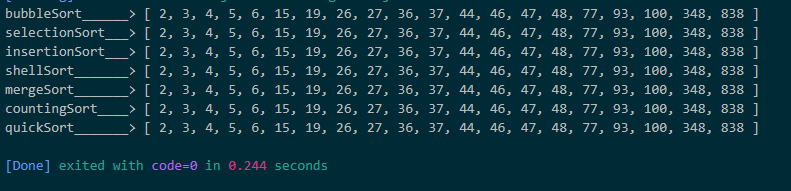
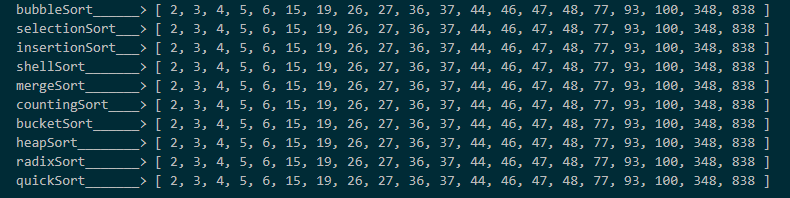
update fibonacci

Changed region(s): [[0.0, 0.0, 0.9722, 0.7592], [0.0, 0.7853, 0.9722, 0.9686]]

diff --git a/Sorting/sort.js b/Sorting/sort.js
@@ -239,19 +239,136 @@ countingSort = function (arr) {
     return B
 }
 console.log('countingSort____>', countingSort(testArr))
-console.log('quickSort_______>', quickSort(testArr))
 
 /*===================== 桶排序 ==========================*/
 var bucketSort
 
+// 1.设置固定空桶数
+// 2.将数据放到对应的空桶中
+// 3.将每个不为空的桶进行排序
+// 4.拼接不为空的桶中的数据，得到结果
+bucketSort = function (arr, bucketSize) {
+    if (arr.length < 2) {
+        return arr
+    }
+    var len = arr.length
+    var arrMin = arr[0]
+    var arrMax = arr[0]
+    for (var i = 0; i < len; i++) {
+        arrMin = Math.min(arrMin, arr[i])
+        arrMax = Math.max(arrMax, arr[i])
+    }
+
+    var BUCKET_SIZE = bucketSize || 10
+    var space = (arrMax - arrMin + 1) / BUCKET_SIZE
+    var buckets = []
+    for (var j = 0; j < len; j++) {
+        var idx = Math.floor((arr[j] - arrMin) / space)
+        if (buckets[idx]) {
+            var k = buckets[idx].length - 1
+            while (k >= 0 && buckets[idx][k] > arr[j]) {
+                buckets[idx][k + 1] = buckets[idx][k]
+                k--
+            }
+            buckets[idx][k + 1] = arr[j]
+        } else {
+            buckets[idx] = []
+            buckets[idx].push(arr[j])
+        }
+    }
+
+    var res = []
+    var n = 0
+    while (n < BUCKET_SIZE) {
+        if (buckets[n]) {
+            res = res.concat(buckets[n])
+        }
+        n++
+    }
+
+    return res
+}
+
+console.log('bucketSort______>', bucketSort(testArr))
 
 /*===================== 堆排序 ==========================*/
 var heapSort
 
+// 交换数组元素
+var swap = function (arr, i, j) {
+    var temp = arr[i]
+    arr[i] = arr[j]
+    arr[j] = temp
+    return arr
+}
+
+var shiftDown = function (arr, i, length) {
+    var temp = arr[i]
+    for (var j = i * 2 + 1; j < length; j = j * 2 + 1) {
+        if (j + 1 < length && arr[j] < arr[j + 1]) {
+            j++
+        }
+        if (temp < arr[j]) {
+            swap(arr, i, j)
+            i = j
+        } else {
+            break
+        }
+    }
+}
+
+heapSort = function (arr) {
+    var len = arr.length
+    for (var i = Math.floor(len / 2 - 1); i >= 0; i--) {
+        shiftDown(arr, i, len)
+    }
+
+    for (var j = len - 1; j > 0; j--) {
+        swap(arr, 0, j)
+        shiftDown(arr, 0, j)
+    }
+    return arr
+}
+
+console.log('heapSort________>', heapSort(testArr))
 
 /*===================== 基数排序 ==========================*/
 var radixSort
 
+// 适用范围：
+// 1. 数据范围较小
+// 2. 每个数值要大于等于0
+/**
+ * @param arr 数组
+ * @param maxDigit 最大位数
+ */
+radixSort = function (arr, maxDigit) {
+    var mod = 10
+    var dev = 1
+    var counter = []
+    for (var i = 0; i < maxDigit; i++, dev *= 10, mod *= 10) {
+        for (var j = 0; j < arr.length; j++) {
+            var bucket = parseInt((arr[j] % mod ) / dev)
+            if (counter[bucket] === null) {
+                counter[bucket] = []
+                counter[bucket].push(arr[j])
+            }
+        }
+        var pos = 0
+        for (var k = 0; k < counter.length; k++) {
+            var value
+            if (counter[k]) {
+                while ((value = counter[k].shift()) !== null) {
+                    arr[pos++] = value
+                }
+            }
+        }
+    }
+    return arr
+}
+
+console.log('radixSort_______>', radixSort(testArr, 2))
+console.log('quickSort_______>', quickSort(testArr))
 export default {
     bubbleSort,         // 冒泡排序
     selectionSort,      // 选择排序

diff --git a/Utils/fibonacci.js b/Utils/fibonacci.js
@@ -1,0 +1,60 @@
+/**
+ * 斐波那契数列
+ * @param {number} n
+ */
+var fibonacci
+
+// 正常递归版本
+// 性能低下，容易爆栈
+var fibonacci1 = function (n) {
+    if (n === 0) {
+        return 0
+    } else if (n === 1) {
+        return 1
+    } else {
+        return fibonacci1(n - 1) + fibonacci1(n - 2)
+    }
+}
+
+
+// for 循环版本
+fibonacci = function (n) {
+    var last = 1
+    var last2 = 0
+    var current = last
+    for (var i = 1; i <= n; i++) {
+        last2 = last
+        last = current
+        current = last + last2
+    }
+    return current
+}
+
+/*===================== 优秀的解决方案 ==========================*/
+// 去除重复计算的递归版本
+// n做递减运算，前两位数字做递增（斐波那契数列的递增）
+fibonacci = function (n) {
+    function _fib(n, a, b) {
+        if (n === 0) {
+            return a
+        } else {
+            return _fib(n - 1, b, a + b)
+        }
+    }
+    return _fib(n, 0, 1)
+}
+
+// 使用记忆函数优化正常递归版本
+var memozi = function (fn) {
+    var cache = {}
+    return function (n) {
+        if (cache[n] == null) {
+            cache[n] = fn(n)
+            return cache[n]
+        } else {
+            return cache[n]
+        }
+    }
+}
+
+var cacheFib = memozi(fibonacci1)
